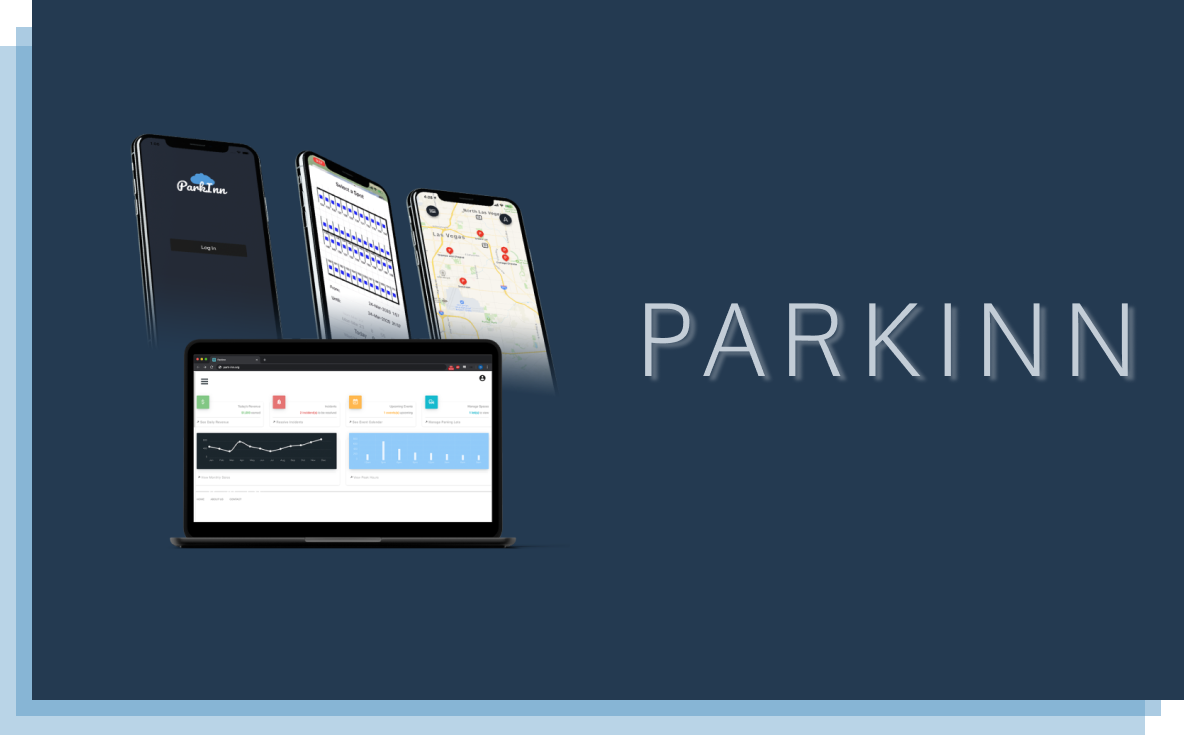
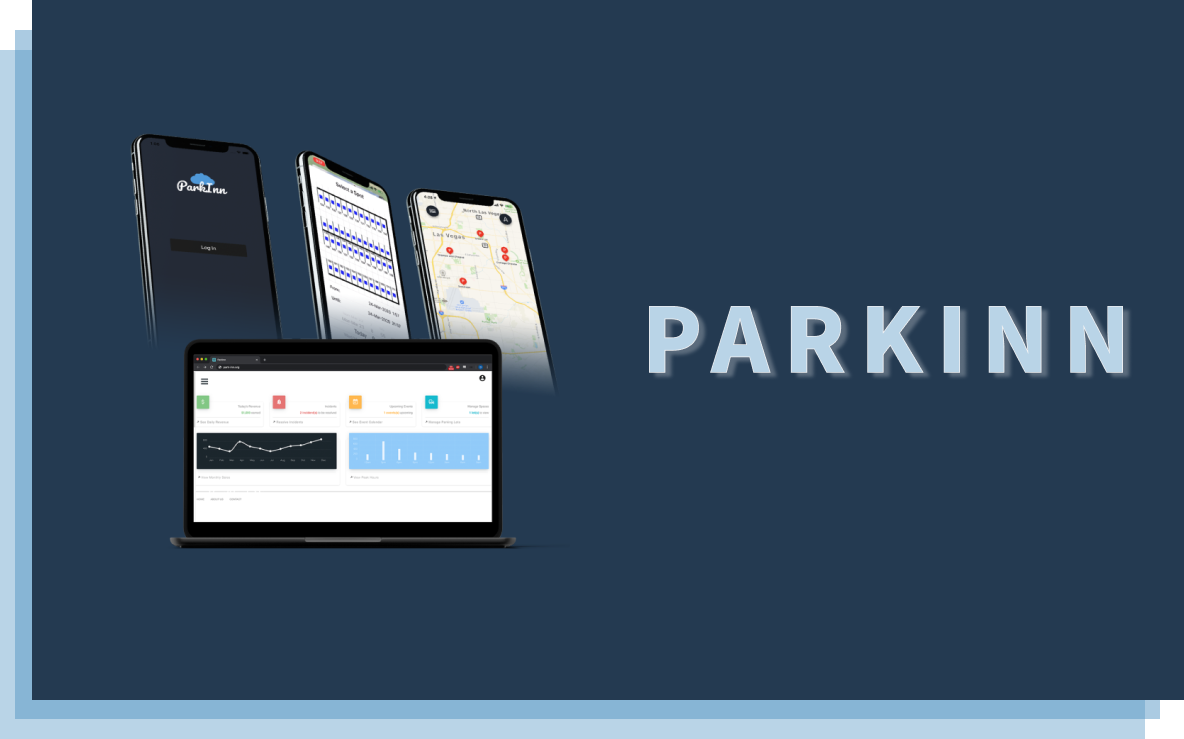
parkinn descriptions

diff --git a/src/Components/Portfolio.js b/src/Components/Portfolio.js
@@ -2,7 +2,9 @@ import React from 'react';
 
 import './Portfolio.css';
 import { Container, Row, Col } from 'react-bootstrap';
-import { Dialog, Toolbar } from '@material-ui/core';
+import { Dialog, Toolbar, ExpansionPanel, ExpansionPanelSummary, ExpansionPanelDetails } from '@material-ui/core';
+
+import { ExpandMore } from '@material-ui/icons';
 
 import DarkContact from './DarkContact.js';
 import ParkInn from './parkinn.png';
@@ -33,14 +35,138 @@ export default function Portfolio() {
                         </Col>
 
                         <Col xs={12} sm={12} md={6} lg={6} className="project-container">
-                            <h1 className="project-title" style={{ color: "#73a9cf" }}>ParkInn</h1> <br/>
-                            <h2 className="project-description">A parking reservation software to manage, monetize, and enforce parking reservations.</h2> <br />
-                            <button className="project-button parkinn" onClick={handleClickOpen}>Learn More</button>
-                            <Dialog fullScreen open={open} onClose={handleClose}>
-                                <Toolbar style={{ flexDirection:'row-reverse', marginBottom: '0px' }}>
-                                    <i className="mat-icons close-icon parkinn" onClick={handleClose}>close</i>
-                                </Toolbar>
-                            </Dialog>
+                            <div className="fade-in-text">
+                                <h1 className="project-title" style={{ color: "#73a9cf" }}>ParkInn</h1> <br/>
+                                <h2 className="project-description">A parking reservation software to manage, monetize, and enforce parking reservations.</h2> <br />
+
+                                <button className="project-button parkinn" onClick={handleClickOpen}>Learn More</button>
+                                <Dialog fullScreen open={open} onClose={handleClose}>
+                                    <Toolbar style={{ flexDirection:'row-reverse', marginBottom: '0px' }}>
+                                        <i className="mat-icons close-icon parkinn" onClick={handleClose}>close</i>
+                                    </Toolbar>
+
+                                    <div className="parkinn-page">
+                                        <Col xs={12} sm={12} md={12} lg={8}>
+                                            {/* <ExpansionPanel defaultExpanded="true"> */}
+                                            <ExpansionPanel>
+                                                <ExpansionPanelSummary expandIcon={<ExpandMore style={{ color: "#73a9cf" }} />} >
+                                                    <h1 className="parkinn-header">About ParkInn</h1>
+                                                </ExpansionPanelSummary>
+                                                <ExpansionPanelDetails>
+                                                    <p className="parkinn-text">
+                                                        ParkInn is a parking reservation software that allows businesses to manage, monetize, and enforce parking online.
+                                                        It consists of two applications: a web application for the businesses to manage their parking lots, and a mobile
+                                                        application for guests to be able to reserve parking online. The software was intended to be used by businesses that
+                                                        enforce paid parking, such as universities, casinos, event centers, festivals, and more. <br/><br/>
+
+                                                        With ParkInn, businesses can: <br/>
+                                                        1. Design their parking lot(s) <br/>
+                                                        2. Sell parking reservations and permits <br/> 
+                                                        3. See statistics about their lots, such as revenue earned over time and peak parking hours <br/>
+                                                        4. Notify users about lot updates, such as closures or limited spaces <br/>
+                                                        5. Handle parking incidents reported by guests <br/><br/>
+
+                                                        Additionally, guests can: <br/>
+                                                        1. Reserve and purchase parking spots and permits <br/>
+                                                        2. See a live map of the lots and available spaces <br/>
+                                                        3. Report incidents to the parking enforcers <br/><br/>
+
+                                                        The application was developed in Spring 2020 by a group of students and I during our Software Product Design course.<br/><br/>
+
+                                                        <a href="https://github.com/lichellegaerlan/parkinn" target="_blank" style={{ color: "#73a9cf", textDecoration: "none" }}>View Source Code</a>
+                                                    </p>
+                                                </ExpansionPanelDetails>
+                                            </ExpansionPanel>
+
+                                            {/* <ExpansionPanel>
+                                                <ExpansionPanelSummary expandIcon={<ExpandMore style={{ color: "#73a9cf" }} />}>
+                                                    <h1 className="parkinn-header">Features</h1>
+                                                </ExpansionPanelSummary>
+                                                <ExpansionPanelDetails>
+                                                    <p className="parkinn-text">
+                                                        With ParkInn, businesses can: <br/>
+                                                        1. Design their parking lot(s) <br/>
+                                                        2. Sell parking reservations and permits <br/> 
+                                                        3. See statistics about their lots, such as revenue earned over time and peak parking hours <br/>
+                                                        4. Notify users about lot updates, such as closures or limited spaces <br/>
+                                                        5. Handle parking incidents reported by guests <br/><br/>
+
+                                                        Additionally, guests can: <br/>
+                                                        1. Reserve and purchase parking spots and permits <br/>
+                                                        2. See a live map of the lots and available spaces <br/>
+                                                        3. Report incidents to the parking enforcers <br/><br/>
+                                                    </p>
+                                                </ExpansionPanelDetails>
+                                            </ExpansionPanel> */}
+
+                                            <ExpansionPanel>
+                                                <ExpansionPanelSummary expandIcon={<ExpandMore style={{ color: "#73a9cf" }} />}>
+                                                    <h1 className="parkinn-header">My Role</h1>
+                                                </ExpansionPanelSummary>
+                                                <ExpansionPanelDetails>
+                                                    <p className="parkinn-text">
+                                                        Conduct user interviews and competitive market analysis <br/>
+                                                        Used the findings from my research to write technical reports and documentation regarding our product's goals,
+                                                        which was later presented to our advisor before we began prototyping and development <br/>
+                                                        Create wireframes and prototypes using Figma <br/>
+                                                        Write frontend code using React JS and Material UI <br/>
+                                                    </p>
+                                                </ExpansionPanelDetails>
+                                            </ExpansionPanel>
+
+                                            <ExpansionPanel>
+                                                <ExpansionPanelSummary expandIcon={<ExpandMore style={{ color: "#73a9cf" }} />}>
+                                                    <h1 className="parkinn-header">My Process</h1>
+                                                </ExpansionPanelSummary>
+                                                <ExpansionPanelDetails>
+                                                    <p className="parkinn-text">
+                                                        <i className="mat-icons parkinn-icons">person_pin</i><span className="tab" style={{ color: "#73a9cf" }}>Empathize and Identify</span> <br/>
+                                                        My group and I started ParkInn because we were frustrated with finding parking at our university and across the city.
+                                                        Later, I conducted user interviews to assess the goals and painpoints of my group members, students, and faculty members
+                                                        at our university. <br/> <br/>
+
+                                                        After conducting user research, I looked into other parking reservation systems on the market. I found that there were
+                                                        no reservation systems that allowed the businesses themselves to have complete control over designing their lots, changing
+                                                        prices, and notifying users about lot closures. This became a defining feature to our product. Our team felt that it was pertinent
+                                                        to allow businesses to manage the parking lots themselves, as it would create a better, informative experience for both stakeholders and customers. <br/><br/>
+                                                        
+                                                        {/* <a href="" target="_blank" style={{ color: "#73a9cf", textDecoration: "none" }}>View Analysis Report</a> */}
+                                                        
+                                                        <i className="mat-icons parkinn-icons">search</i><span className="tab" style={{ color: "#73a9cf" }}>Analyze and Define</span> <br/>
+                                                        By conducting user interviews, and even putting myself into the position of a potential user, I understood
+                                                        that users just wanted a simple, clean, and straightforward way to be able to view and reserve spots in certain lots with
+                                                        a similar system to placing movie theater recommendations. Conducting market analysis also allowed me to recognize that
+                                                        there were no products on the market that allowed businesses to customize their parking lots. By allowing businesses to do so,
+                                                        a better user experience could be created since users would be notified about price changes on spots or lot closures due to events.
+                                                        As such, we came to the conclusion that this would be a defining, unique feature to our product. <br/><br/>
+
+                                                        {/* <a href="" target="_blank" style={{ color: "#73a9cf", textDecoration: "none" }}>View User Persona</a> */}
+
+                                                        <i className="mat-icons parkinn-icons">create</i><span className="tab" style={{ color: "#73a9cf" }}>Ideate and Design</span> <br/>
+                                                        After conducting research and analyzing the current problem, I met with my team to discuss my findings and suggesting
+                                                        core features necessary to create our product based off of my findings. With this in mind, I wireframed and prototyped the product using Figma. <br/><br/>
+                                                        {/* <a href="" target="_blank" style={{ color: "#73a9cf", textDecoration: "none" }}>View Wireframe</a> */}
+                                                        {/* <a href="" target="_blank" style={{ color: "#73a9cf", textDecoration: "none" }}>View Paper Prototype</a> */}
+                                                        
+                                                        <i className="mat-icons parkinn-icons">build</i><span className="tab" style={{ color: "#73a9cf" }}>Implement and Test</span> <br/>
+                                                        I presented my prototype to my team and my professor for approval before moving forward with implementation. 
+                                                        Since I was also responsible for developing the web application's frontend, I was able to iteratively test and present 
+                                                        the design and user experience of our product with my team members, classmates, and professor throughout its development.
+
+                                                        My team and I worked incredibly hard to develop a beautiful, efficient, and useful product. Upon final presentation, we 
+                                                        had were able to host both the mobile and web applications. After presenting, we had received a lot of positive feedback. 
+                                                        Due to costs, we could not keep our server live, but the source code can be found <a href="https://github.com/lichellegaerlan/parkinn" target="_blank" style={{ color: "#73a9cf", textDecoration: "none" }}>on my Github</a>.
+                                                    </p>
+                                                </ExpansionPanelDetails>
+                                            </ExpansionPanel>
+                                        </Col>
+                                        <br/><br/>
+                                        <Col xs={12} sm={12} md={12} lg={6}>
+                                            <button className="close-button parkinn-close-button" onClick={handleClose}>Close</button>
+                                        </Col>
+                                    </div>
+                                </Dialog>
+                            </div>
                         </Col>
                     </Row>
                 </Container>

diff --git a/src/Components/Skills.js b/src/Components/Skills.js
@@ -62,12 +62,13 @@ export default props => {
                                                 <h1 className="card-sub">+ Skills</h1>
                                             </ExpansionPanelSummary>
                                             <ExpansionPanelDetails className="text-desc">
-                                                • Troubleshoot customer's network connectivity issues<br/>
-                                                • Configure and install Cisco switches, voice gateways, access points, and UPS <br/>
-                                                • Data and fiber infrastructure cabling <br/>
-                                                • IP address management <br/>
-                                                • DNS reservations <br/>
-                                                • Technical documentation of Angular JS web applications <br/>
+                                                Troubleshoot customer's network connectivity issues<br/>
+                                                Configure and install Cisco switches, voice gateways, access points, and UPS <br/>
+                                                Data and fiber infrastructure cabling <br/>
+                                                IP address management <br/>
+                                                DNS reservations <br/>
+                                                Technical documentation of Angular JS web applications <br/>
+                                                Basic automation scripting using Python <br/>
                                             </ExpansionPanelDetails>
                                         </ExpansionPanel>
 
@@ -124,13 +125,13 @@ export default props => {
                                                 <h1 className="card-sub">+ Skills</h1>
                                             </ExpansionPanelSummary>
                                             <ExpansionPanelDetails className="text-desc">
-                                                • User Research <br/>
-                                                • User Interviews <br/>
-                                                • Persona Development <br/>
-                                                • Information Architecture <br/>
-                                                • Wireframing <br/>
-                                                • Prototyping <br/>
-                                                • Usability Testing <br/>
+                                                User Research <br/>
+                                                User Interviews <br/>
+                                                Persona Development <br/>
+                                                Information Architecture <br/>
+                                                Wireframing <br/>
+                                                Prototyping <br/>
+                                                Usability Testing <br/>
                                             </ExpansionPanelDetails>
                                         </ExpansionPanel>
 
@@ -182,14 +183,14 @@ export default props => {
                                                 <h1 className="card-sub">+ Skills</h1>
                                             </ExpansionPanelSummary>
                                             <ExpansionPanelDetails className="text-desc">
-                                                • Create responsive frontend for desktops, tablets, and mobile devices <br/>
-                                                • Create RESTful API <br/>
-                                                • Knowledge of software design cycle models <br/>
-                                                • Ability to create UML <br/>
-                                                • Experience in agile scrum development environment <br/>
-                                                • User Research <br/>
-                                                • Prototyping <br/>
-                                                • Usability Testing <br/>
+                                                Create responsive frontend for desktops, tablets, and mobile devices <br/>
+                                                Create RESTful API <br/>
+                                                Knowledge of software design cycle models <br/>
+                                                Ability to create UML <br/>
+                                                Experience in agile scrum development environment <br/>
+                                                User Research <br/>
+                                                Prototyping <br/>
+                                                Usability Testing <br/>
                                             </ExpansionPanelDetails>
                                         </ExpansionPanel>
 

diff --git a/src/Components/Portfolio.css b/src/Components/Portfolio.css
@@ -22,11 +22,11 @@
 }
 
 .project-title {
-    font-family: "Oxygen";
+    font-family: "Helvetica";
     font-weight: 100;
     text-transform: uppercase;
-    letter-spacing: 5px;
-    font-size: 200%;
+    letter-spacing: 2px;
+    font-size: 150%;
 }
 
 .project-description {
@@ -56,6 +56,14 @@
     background-color: #fff;
 }
 
+.fade-in-text {
+    animation: fadeIn ease 2s;
+    -webkit-animation: fadeIn ease 2s;
+    -moz-animation: fadeIn ease 2s;
+    -o-animation: fadeIn ease 2s;
+    -ms-animation: fadeIn ease 2s;
+}
+
 .portfolio-preview {
     height: 100vh;
     text-align: center;
@@ -64,4 +72,53 @@
 .preview-container {
     padding-top: 10%;
     text-align: center;
+}
+
+.parkinn-page {
+    /* padding: top right bottom left */
+    padding: 0 2% 2% 5%;
+}
+
+.close-button {
+    font-family: "Helvetica";
+    font-weight: 500;
+    font-size: 85%;
+    /* color: #fff; */
+    /* background-color: #caa6a1; */
+    text-transform: uppercase;
+    letter-spacing: 1px;
+    border-style: none;
+    border-radius: 3px;
+    /* padding: top right bottom left */
+    padding: 6px 10px 5px 10px;
+}
+
+.parkinn-close-button {
+    color: #fff;
+    background-color: #73a9cf;
+}
+
+.parkinn-close-button:hover {
+    color: #73a9cf;
+    background-color: #fff;
+}
+
+.parkinn-icons {
+    color: #73a9cf;
+    font-size: 13px;
+}
+
+
+.parkinn-header {
+    font-family: "Helvetica";
+    font-weight: 100;
+    color: #73a9cf;
+    font-size: 125%;
+}
+
+.parkinn-text {
+    font-family: "Helvetica";
+    font-weight: 100; 
+    color: #777;
+    font-size: 100%;
 }

diff --git a/src/Components/About.js b/src/Components/About.js
@@ -146,7 +146,7 @@ export default function About() {
                                 <h2 className="about-headers">Tech Usage</h2>
                                 <p className="about-text">
                                     <i className="mat-icons">devices</i><span className="tab">Devices: Macbook Pro, iPad Pro, iPhone</span> <br/>
-                                    <i className="mat-icons">developer_mode</i><span className="tab">Operating Systems: Linux, Mac OS X, Windows</span> <br/>
+                                    <i className="mat-icons">developer_mode</i><span className="tab">Operating Systems: Linux, Mac OS, Windows</span> <br/>
                                     <i className="mat-icons">cloud</i><span className="tab">Other: IT, Computer Networks</span> <br/>
                                 </p>
                             </Col>
@@ -155,9 +155,9 @@ export default function About() {
                     </Container>
                 </div>
                 
-                <div style={{ width: "100vw" }}>
+                {/* <div style={{ width: "100vw" }}> */}
                     <DarkContact />
-                </div>
+                {/* </div> */}
             </div>
         );
     // }

diff --git a/src/Components/DarkContact.css b/src/Components/DarkContact.css
@@ -1,7 +1,7 @@
 .contact-page-dark {
     background: #6c473f;
     height: 70vh;
-    width: 100vw;
+    /* width: 100vw; */
     padding-top: 7%;
     padding-right: 0px;
     margin-bottom: 0px;

diff --git a/src/Components/Skills.css b/src/Components/Skills.css
@@ -101,7 +101,7 @@
     font-family: 'Muli';
     font-weight: 600;
     font-size: 85%;
-    color: #986359;
+    color: #777;
     /* text-transform: uppercase; */
 }
 
